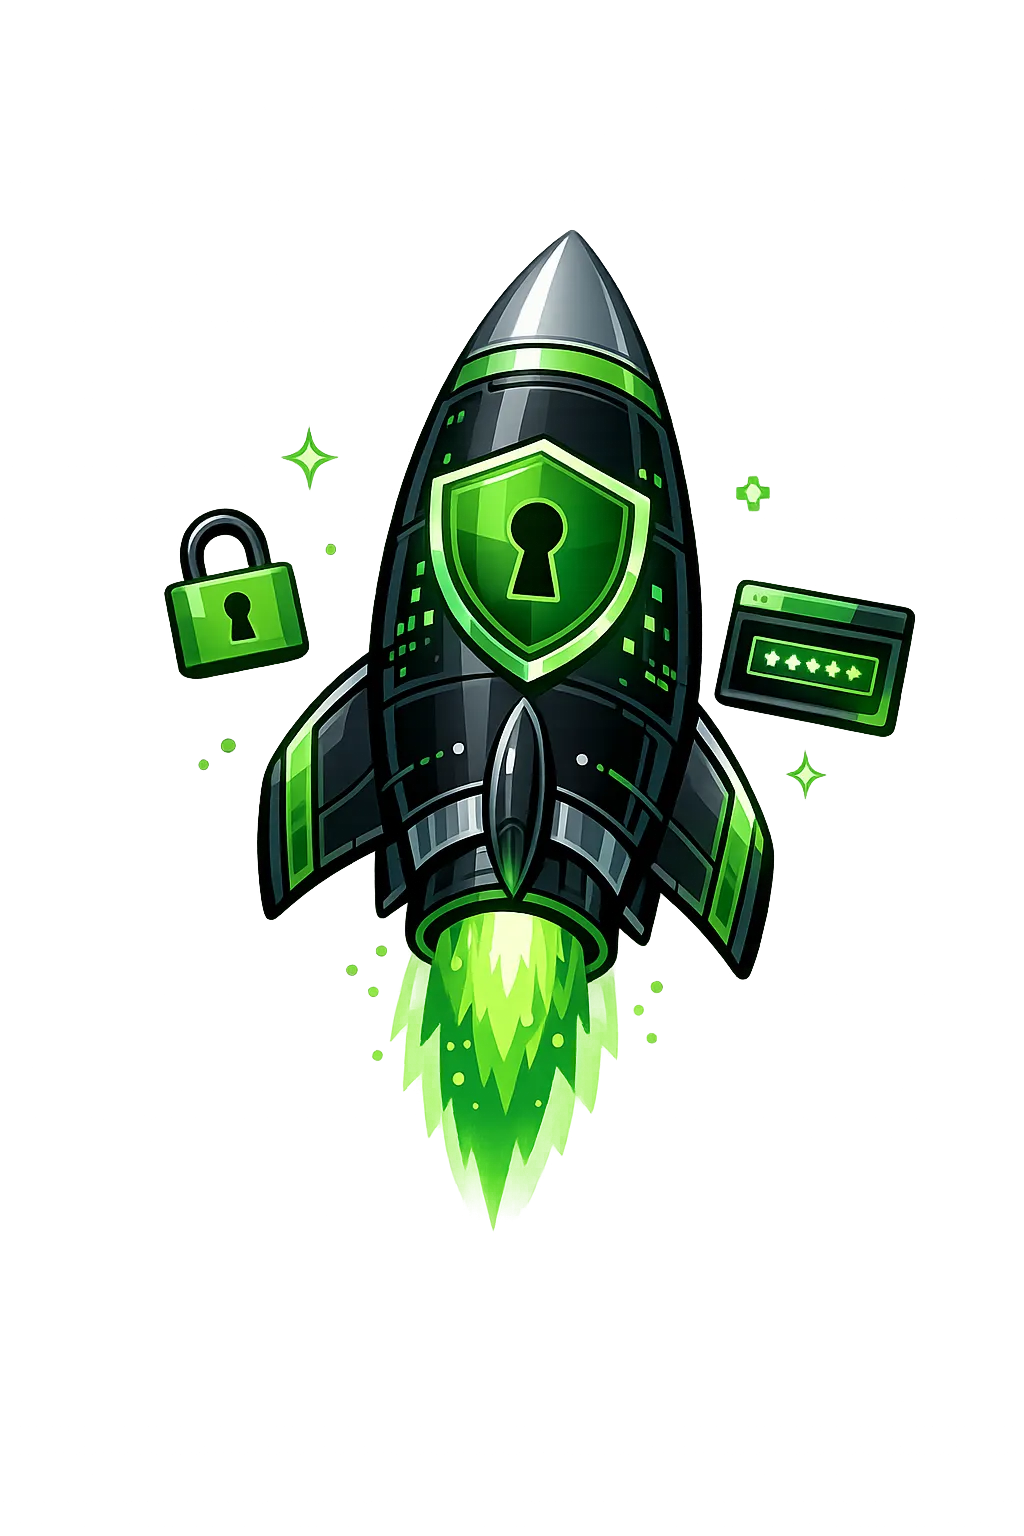
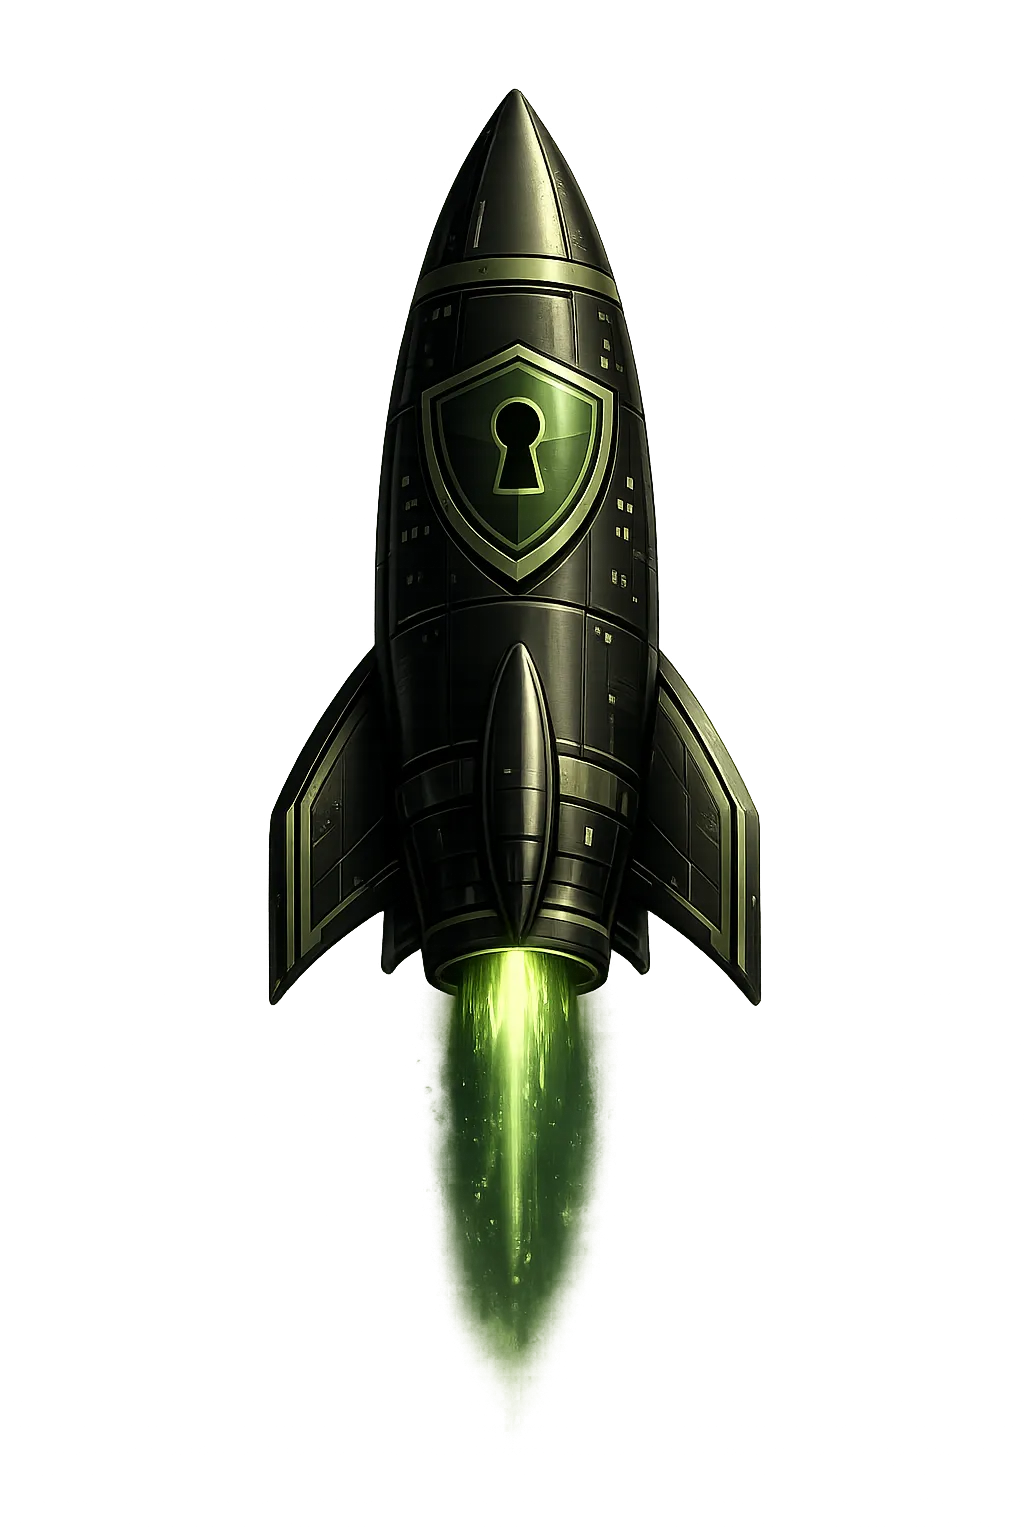
1 refactor(assets): reorganize public folder and migrate to      optimized webp    2    3 - Categorized images into logical subdirectories:      /assets/partners, /assets/walkthrough, etc.    4 - Removed legacy PNG duplicates and consolidated assets into      /assets/.    5 - Updated all component p

Changed region(s): [[0.1562, 0.0625, 0.9062, 0.9062], [0.7188, 0.3125, 0.75, 0.3438], [0.2812, 0.2812, 0.3125, 0.3125]]

diff --git a/src/features/marketing/components/landing/HeroSection.tsx b/src/features/marketing/components/landing/HeroSection.tsx
@@ -50,14 +50,6 @@ const HeroSection: React.FC<HeroSectionProps> = ({
       >
         {/* Left column */}
         <div className="flex flex-col items-center justify-center w-full h-full lg:h-auto lg:min-h-0 lg:items-start lg:justify-start lg:pr-12 md:pt-4 xl:pt-6">
-          
-          {/* Eyebrow */}
-          {/* <div className="flex items-center gap-3 mb-4 lg:mb-3">
-            <div className="h-[1px] w-8 bg-accent/40" />
-            <span className="text-[10px] font-black text-accent uppercase tracking-[0.35em]">
-              Africa's Offensive Security Platform
-            </span>
-          </div> */}
 
           {/* Headline */}
           <h1 className="text-3xl sm:text-4xl md:text-5xl lg:text-5xl xl:text-6xl font-bold text-text-primary leading-[1.08] mb-4 md:mb-5 tracking-tight">

diff --git a/src/features/marketing/components/landing/FinalCtaSection.tsx b/src/features/marketing/components/landing/FinalCtaSection.tsx
@@ -59,7 +59,7 @@ const FinalCtaSection: React.FC<FinalCtaSectionProps> = ({ user }) => {
         src="/assets/illustrations/cta-operator.webp"
         alt=""
         aria-hidden="true"
-        className="hidden lg:block absolute right-0 bottom-0 h-[88%] w-auto object-contain pointer-events-none select-none z-[1]"
+        className="hidden lg:block absolute right-0 bottom-0 h-[120%] w-auto object-contain pointer-events-none select-none z-[1]"
         style={{ opacity: 0.7, maskImage: 'linear-gradient(to right, transparent 0%, black 20%)', WebkitMaskImage: 'linear-gradient(to right, transparent 0%, black 20%)' }}
       />
 
@@ -69,7 +69,7 @@ const FinalCtaSection: React.FC<FinalCtaSectionProps> = ({ user }) => {
           <div className="flex items-center gap-3 mb-3">
               <div className="h-[1px] w-8 bg-accent/40" />
               <span className="text-[10px] font-black text-accent uppercase tracking-[0.35em]">
-                Join the Movement // Become a Hacker
+                Don't Just see  Look.  
               </span>
             </div>
 

diff --git a/src/shared/utils/resolveImg.ts b/src/shared/utils/resolveImg.ts
@@ -22,9 +22,7 @@ export const resolveImg = (value?: string, fallback = ''): string => {
 
   // Public-folder assets — served by the frontend, no API prefix needed
   if (
-    src.startsWith('/images/')
-    || src.startsWith('/assets/')
-    || src.startsWith('/walkthrough/')
+    src.startsWith('/assets/')
     || src.startsWith('/public/')
   ) return src;
 

diff --git a/src/features/marketing/hooks/landingCache.ts b/src/features/marketing/hooks/landingCache.ts
@@ -76,8 +76,9 @@ interface StoredLandingSnapshot extends LandingSnapshot {
  * current page's origin as the base.
  *
  * This is necessary because the Cache Storage API requires absolute URLs —
- * passing a relative path like "/images/bootcamp.webp" to caches.match()
+ * passing a relative path like "/assets/bootcamp.webp" to caches.match()
  * would fail to find the cached entry.
+
  *
  * Falls back to the original string if URL construction throws (e.g. the
  * input is already absolute or is an empty string).

diff --git a/src/features/marketing/components/landing/PartnersSection.tsx b/src/features/marketing/components/landing/PartnersSection.tsx
@@ -11,7 +11,7 @@ const PARTNER_FILENAMES: string[] = [
 ];
 
 const PARTNER_IMAGES: string[] = PARTNER_FILENAMES.map(
-  (name) => `/images/patners/${name}`
+  (name) => `/assets/partners/${name}`
 );
 
 const PLACEHOLDER_LABELS = [

diff --git a/src/features/scan/components/AnansiHero.tsx b/src/features/scan/components/AnansiHero.tsx
@@ -14,7 +14,7 @@ const AnansiHero: React.FC<AnansiHeroProps> = ({ className = '' }) => {
   return (
     <div className={`relative flex items-center justify-center lg:justify-start ${className}`}>
       <img
-        src="/ANANSI-LOGO.png"
+        src="/assets/branding/logos/anansi-logo.webp"
         alt="ANANSI Intelligence"
         className="relative z-10 w-full h-full object-contain"
         draggable={false}

diff --git a/src/features/student/constants/bootcampConfig.ts b/src/features/student/constants/bootcampConfig.ts
@@ -86,7 +86,7 @@ export function buildStepImagePath(
     .map((part) => encodeURIComponent(part))
     .join('/');
 
-  return `/walkthrough/hpb/${phaseDir}/${roomDir}/${encoded}`;
+  return `/assets/walkthrough/hpb/${phaseDir}/${roomDir}/${encoded}`;
 }
 
 // ── Config ────────────────────────────────────────────────────────────────────

diff --git a/src/shared/components/brand/AnansiLogo.tsx b/src/shared/components/brand/AnansiLogo.tsx
@@ -7,7 +7,7 @@ interface AnansiLogoProps {
   minimal?: boolean;
 }
 
-const LOGO_SRC = '/ANANSI-LOGO.png';
+const LOGO_SRC = '/assets/branding/logos/anansi-logo.webp';
 
 const AnansiLogo: React.FC<AnansiLogoProps> = ({
   size = 64,